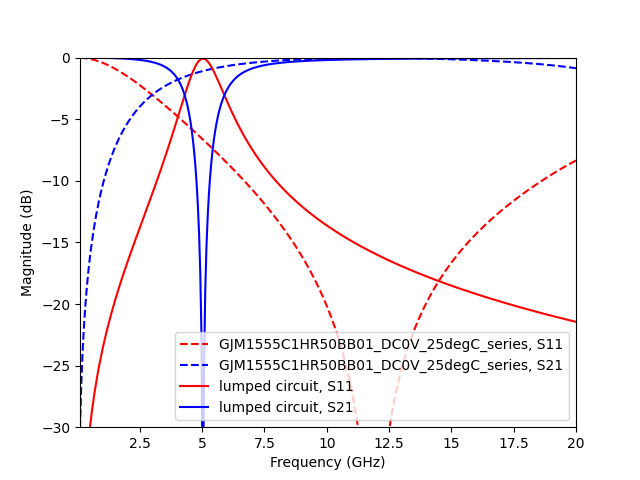
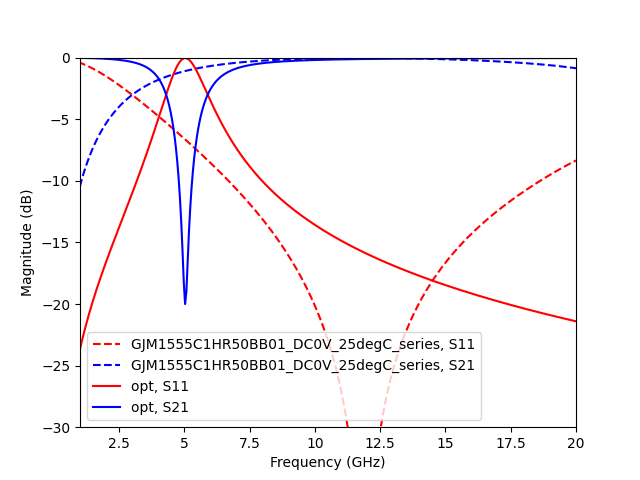
implement model function

diff --git a/scripts/fitting.py b/scripts/fitting.py
@@ -1,17 +1,20 @@
+import numpy as np
 import skrf as rf
+from scipy.optimize import curve_fit
 import matplotlib.pyplot as plt
 
-if __name__ == '__main__':
-    simsurfing = rf.Network('data/GJM1555C1HR50BB01_DC0V_25degC_series.s2p')
-    simsurfing.frequency.unit = 'ghz'
 
-    freq = simsurfing.frequency
+def parallel_RLC(freq, param : np.ndarray):
+    p = np.split(param, 3)
 
-    # modeling 
+    R = p[0]
+    L = p[1]
+    C = p[2]
+
     line = rf.media.DefinedGammaZ0(frequency=freq, z0=50)
-    res = line.resistor(1e4, name='R')
-    cap = line.capacitor(1e-12, name='C')
-    ind = line.inductor(1e-9, name='L')
+    res = line.resistor(R, name='R')
+    cap = line.capacitor(L, name='C')
+    ind = line.inductor(C, name='L')
 
     port1 = rf.Circuit.Port(freq, name='port1', z0=50)
     port2 = rf.Circuit.Port(freq, name='port2', z0=50)
@@ -25,11 +28,29 @@ if __name__ == '__main__':
     ntw = cir.network
     ntw.name = 'lumped circuit'
 
+    return ntw.s
+
+
+if __name__ == '__main__':
+    simsurfing = rf.Network('data/GJM1555C1HR50BB01_DC0V_25degC_series.s2p')
+    simsurfing.frequency.unit = 'ghz'
+
+    freq = simsurfing.frequency
+
+    R = np.full(freq.f.size, 1e4)
+    L = np.full(freq.f.size, 1e-12)
+    C = np.full(freq.f.size, 1e-9)
+
+    param = np.concatenate([R, L, C], axis=0)
+    s = parallel_RLC(freq, param)
+
     simsurfing.plot_s_db(n=0, m=0, c='r' ,linestyle='dashed')
     simsurfing.plot_s_db(n=0, m=1, c='b' ,linestyle='dashed')
-    ntw.plot_s_db(n=0, m=0, c='r')
-    ntw.plot_s_db(n=0, m=1, c='b')
 
-    # plt.xlim(1e9, 10e9)
+    plt.plot(freq.f, 10*np.log10(s[:,0,0].real), c='r', label='opt, S11')
+    plt.plot(freq.f, 10*np.log10(s[:,1,0].real), c='b', label='opt, S21')
+
+    plt.xlim(1e9, 20e9)
     plt.ylim(-30, 0)
+    plt.legend()
     plt.savefig('a.png')
